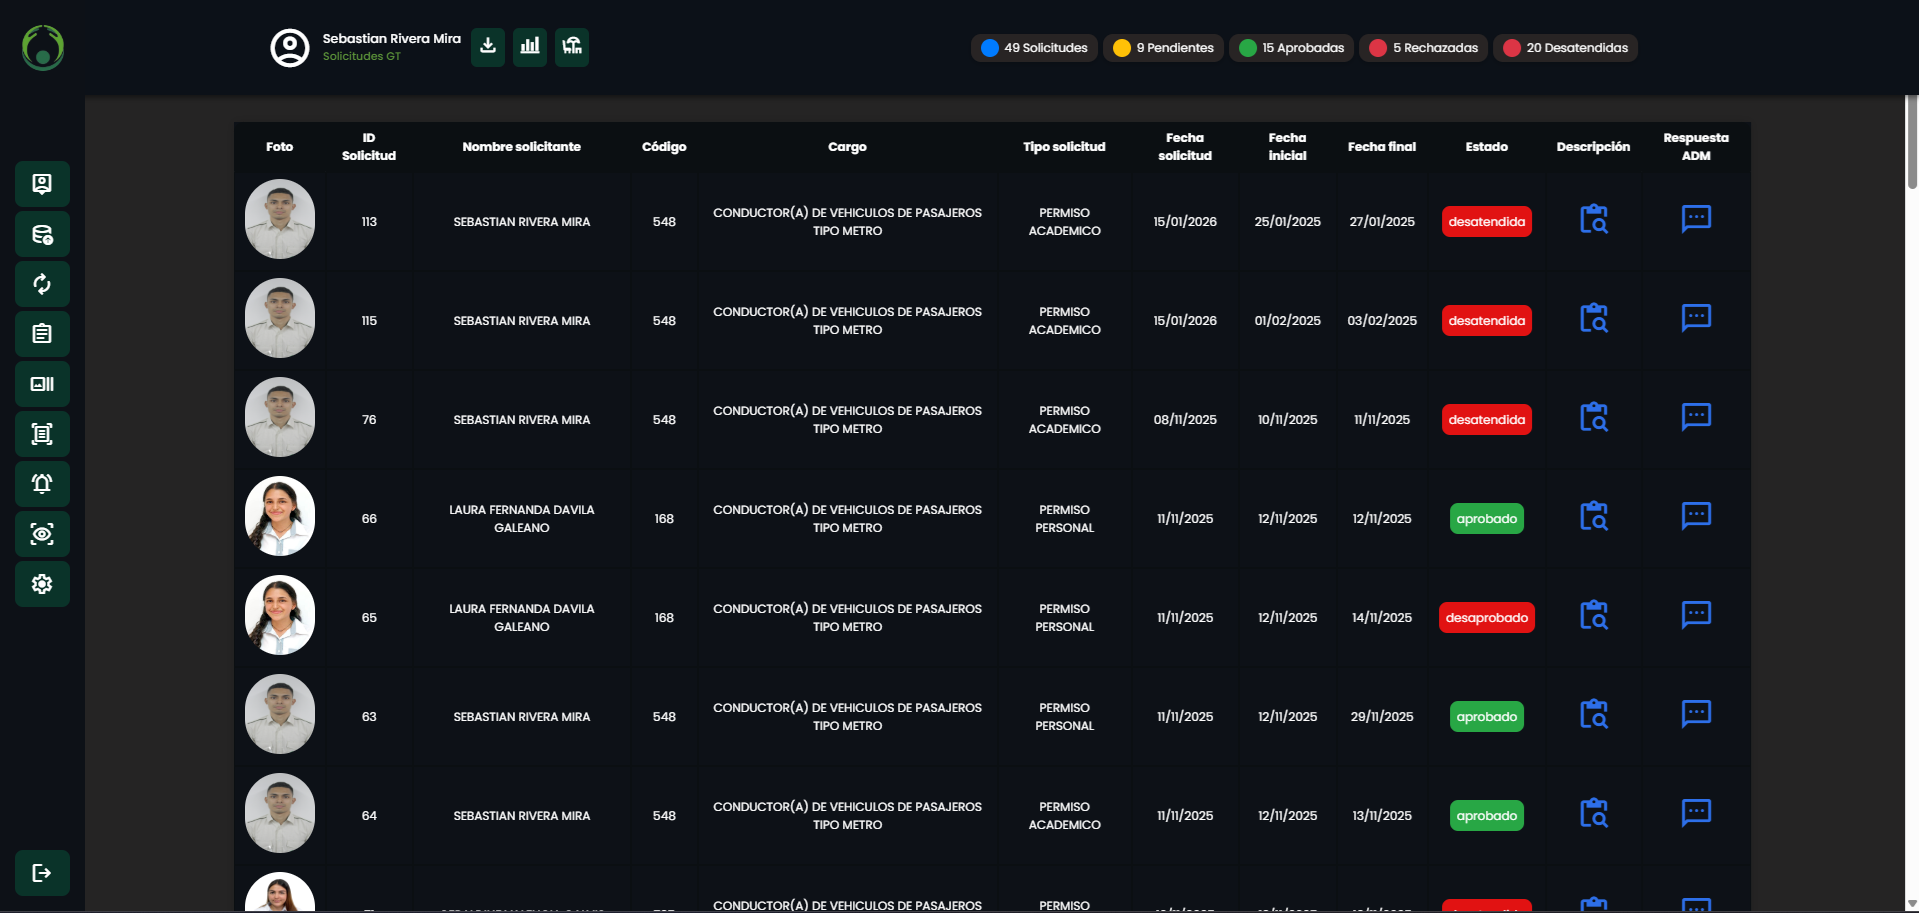
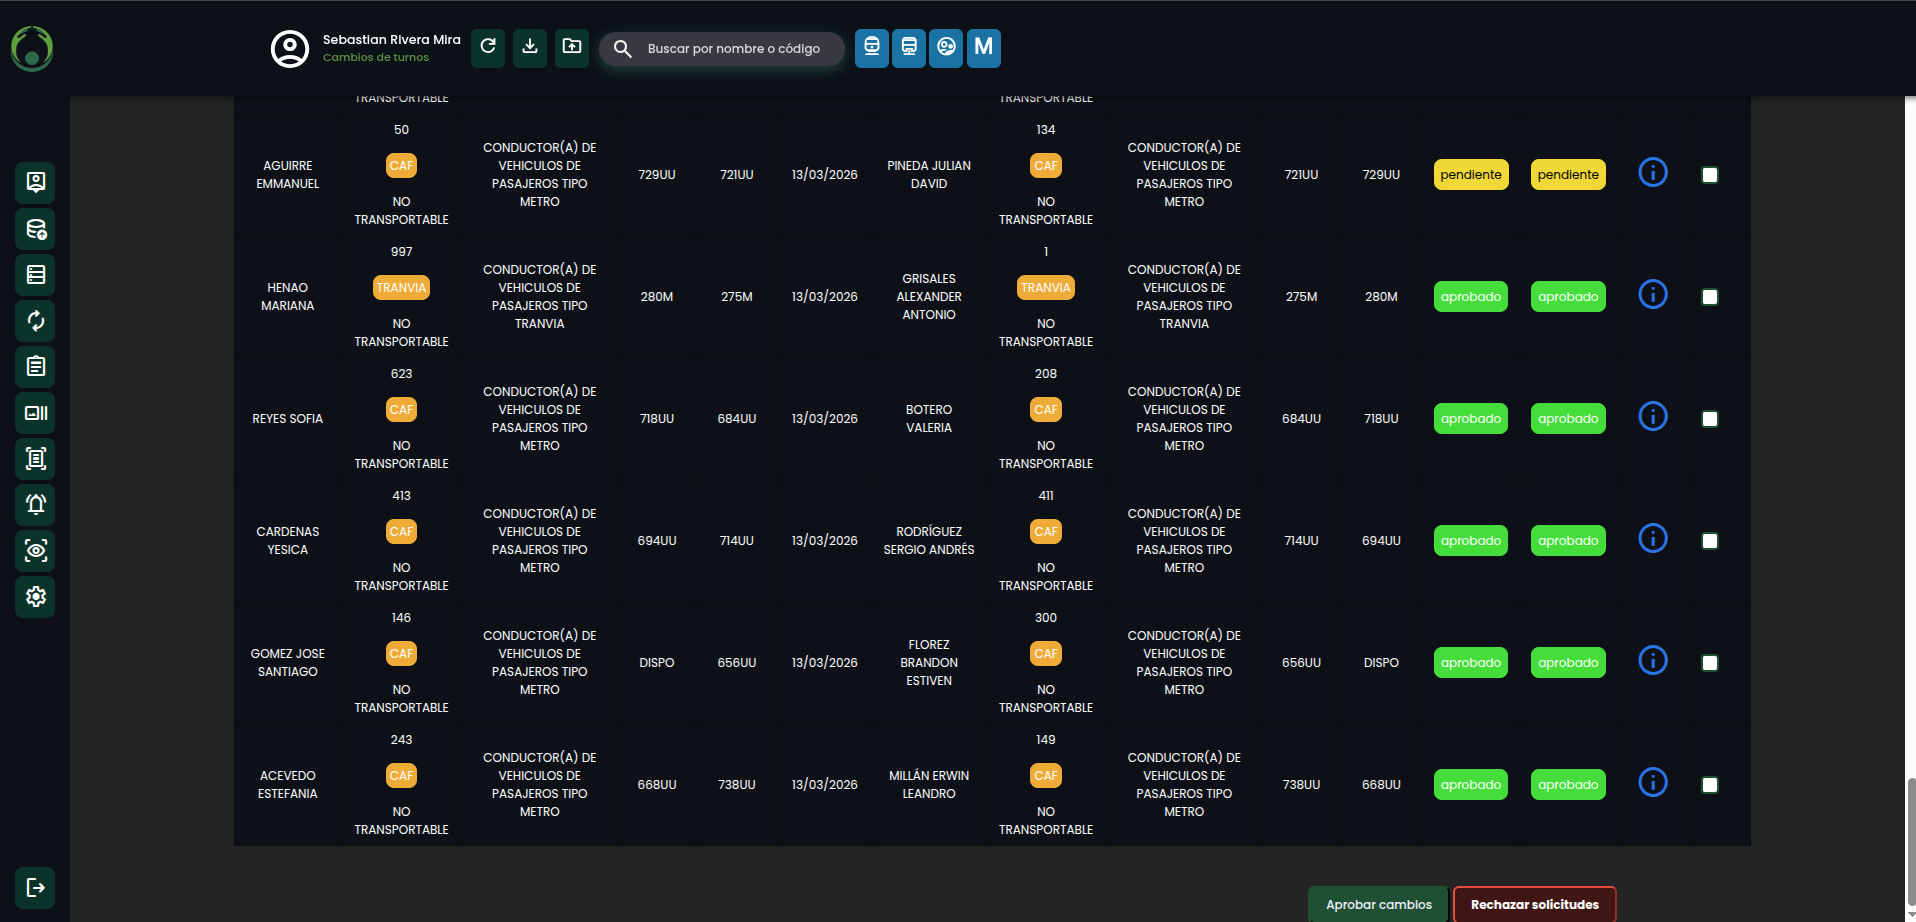
Cambios en la descripcion de los nuevos modales

diff --git a/script.js b/script.js
@@ -73,3 +73,33 @@ function openProject1() {
     ]
   );
 }
+
+function openProject2() {
+  const content = `
+    <h4></h4>
+    <hr>
+    <br>
+    <p>
+    La automatización del proceso de cambios de turnos consiste en que el sistema evalúe y apruebe o rechace las solicitudes de forma automática, basándose en reglas estrictas previamente definidas por la organización.
+    </p>
+    <br>
+    <ul>
+    <li>El sistema actúa como un actor dentro del proceso, encargado de analizar y determinar la validez de cada solicitud.</li>
+    <li>Garantía de trazabilidad en cada solicitud de cambio de turno.</li>
+    <li>Aplicación de validaciones estrictas sobre los cargos involucrados.</li>
+    <li>Gestión de excepciones de acuerdo con las políticas definidas por la organización.</li>
+    </ul>
+    <br>
+    <hr>
+  `;
+
+  openModal(
+    "Sistema Inteligente de Gestión de Turnos",
+    content,
+    [
+      "https://raw.githubusercontent.com/srivera227/Portafolio/refs/heads/main/images/4.png",
+      "https://raw.githubusercontent.com/srivera227/Portafolio/refs/heads/main/images/5.png",
+      "https://raw.githubusercontent.com/srivera227/Portafolio/refs/heads/main/images/6.png"
+    ]
+  );
+}

diff --git a/index.html b/index.html
@@ -82,12 +82,10 @@
       <div class="image-wrapper">
         <img src="https://raw.githubusercontent.com/srivera227/Portafolio/refs/heads/main/images/4.png">
       </div>
-      <h3>Sistema de Gestión de Solicitudes</h3>
+      <h3>Automatización Cambios de Turnos</h3>
       <p>Flujo completo de aprobación con trazabilidad y filtros dinámicos.</p>
       <button class="btn-small"
-        onclick="openModal(
-        'Sistema de Solicitudes Internas',
-        'Plataforma con estados automatizados, historial de cambios, validaciones backend y optimización de consultas en PostgreSQL.')">
+        onclick="openProject2()">
         Ver más
       </button>
     </div>
